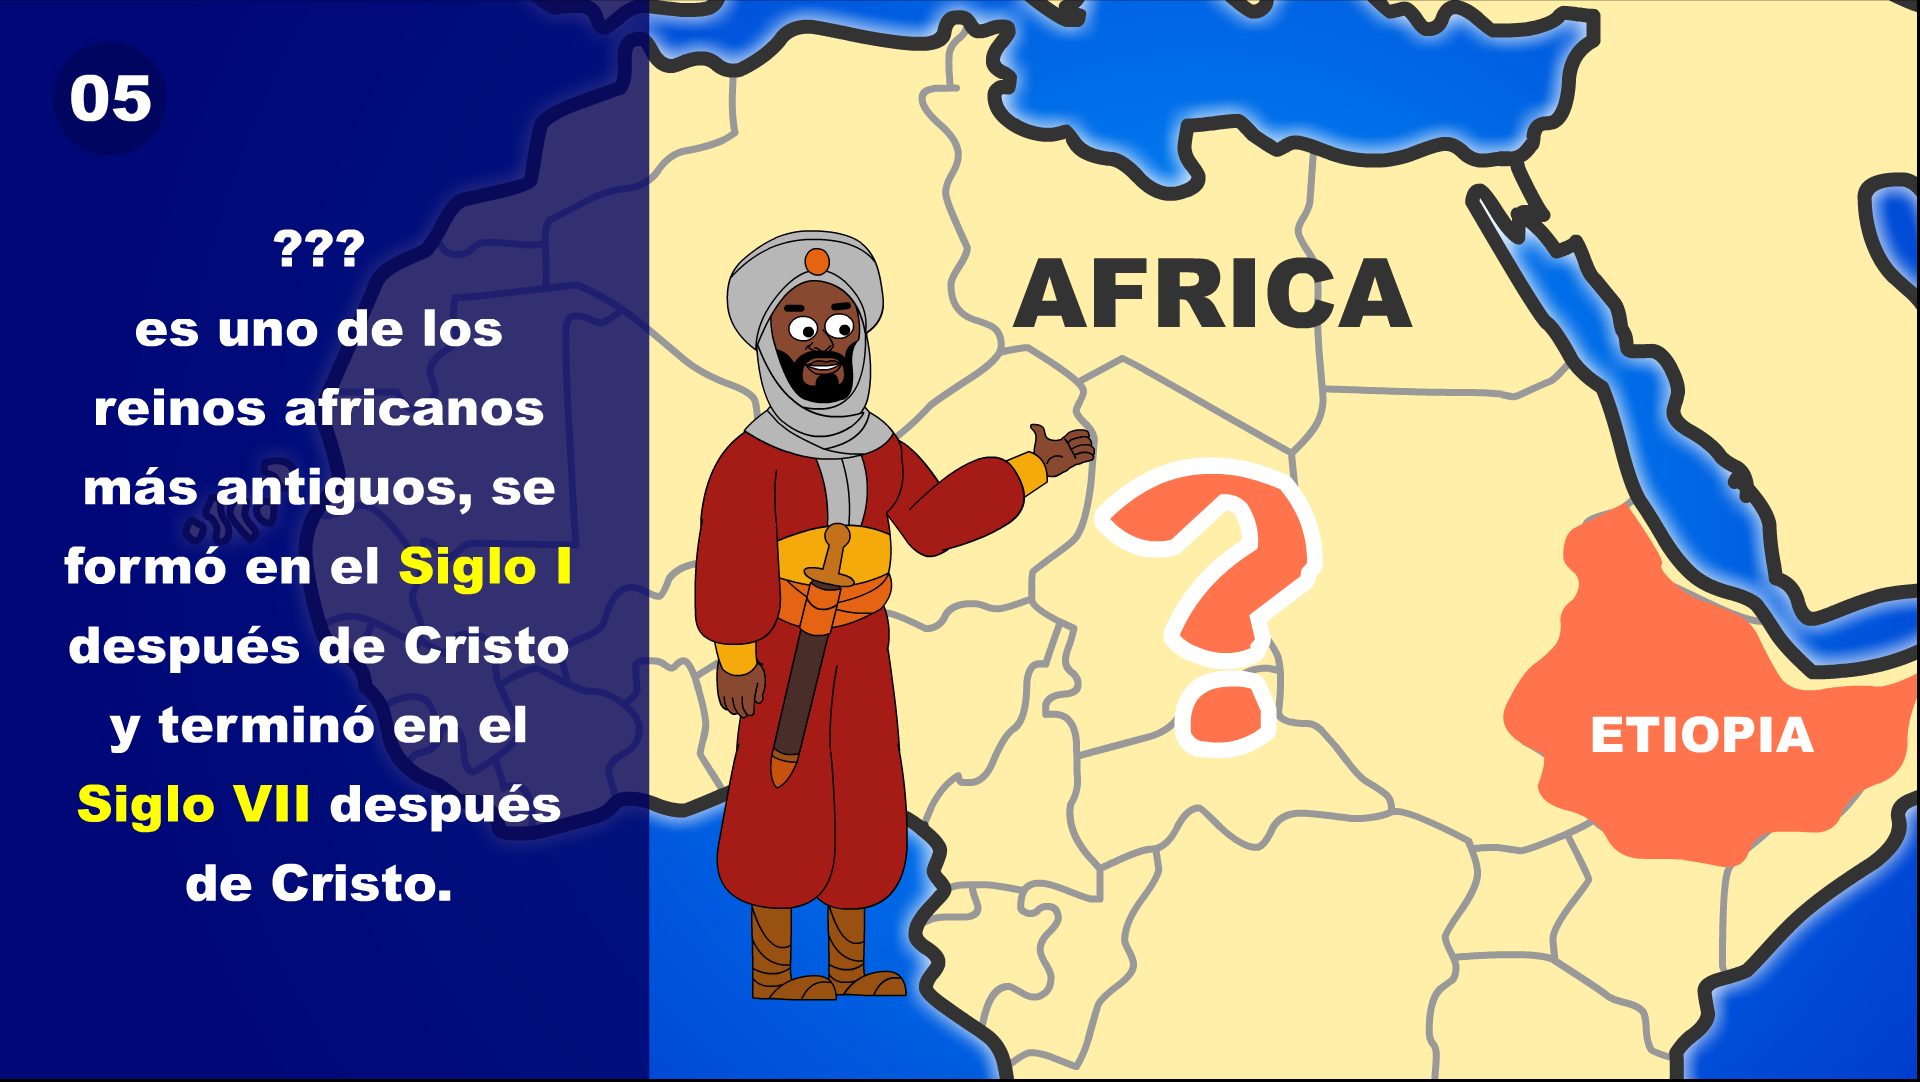
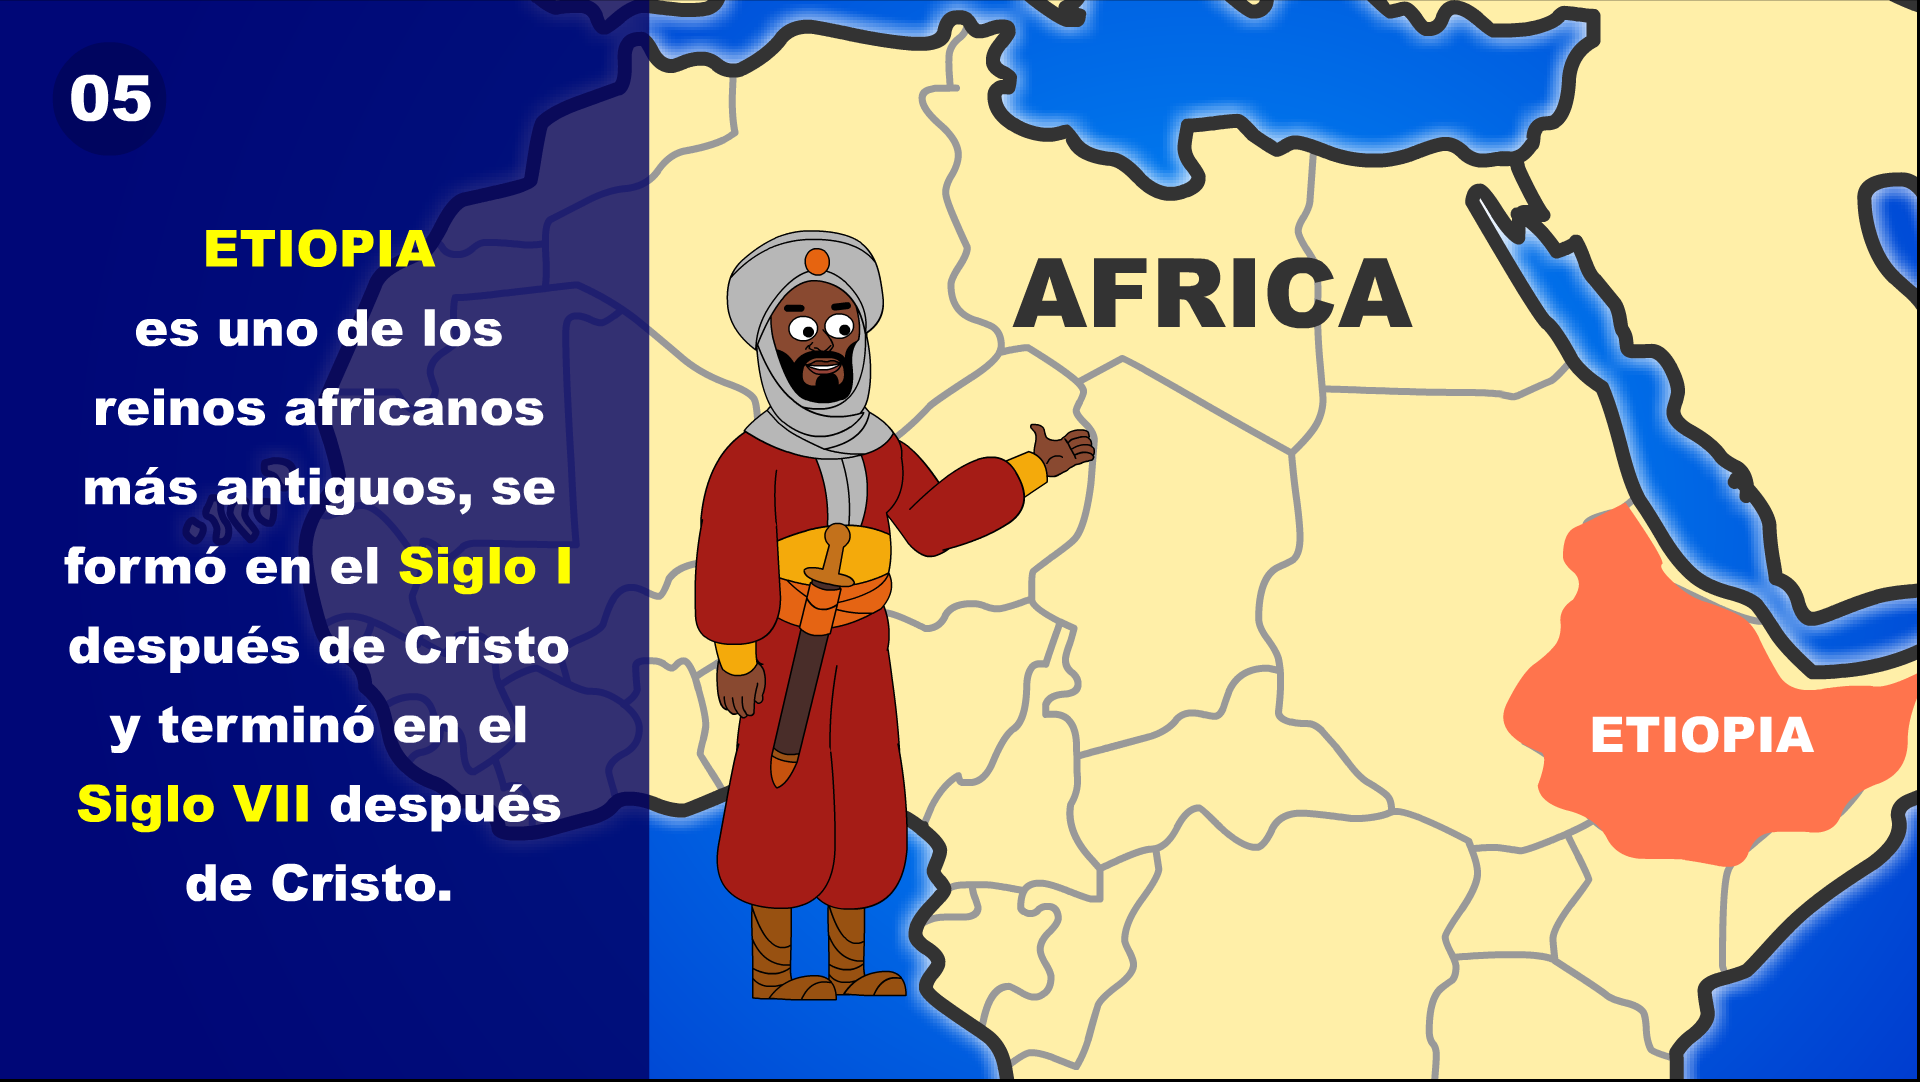
Story Cap 1

Changed region(s): [[0.5625, 0.427, 0.6875, 0.7015], [0.0938, 0.2135, 0.25, 0.244]]

diff --git a/app/static/assets/js/capitulo1.js b/app/static/assets/js/capitulo1.js
@@ -74,7 +74,7 @@ var iTitulo;
 var ratioTitulo;
 var pPrincipal;
 var iMapa;
-var rStory1, rKeita;
+var rStory1, rKeita, rVideointro;
 var frames;
 var iPergamino;
 var menuCapitulos;
@@ -87,6 +87,7 @@ loader.add('titulo', '../static/assets/img/titulo.png')
     .add('nube', '../static/assets/img/nube.png')
     .add('story1', '../static/assets/img/storycapitulo1.json')
     .add('keita', '../static/assets/img/storycapituloKeita.json')
+    .add('videointro', '../static/assets/img/storyintro.json')
     .add('iPergamino', '../static/assets/img/pergamino.png')
     //.add('capitulo4', '../static/assets/img/menu/iCapitulo4.png')
     //.add('capitulo5', '../static/assets/img/menu/iCapitulo5.png')
@@ -159,6 +160,31 @@ function startup() {
     keita.stop();
     keita.visible = false;
     app.stage.addChild(keita);
+
+    let urlsVideoIntro = loader.resources.videointro.data.url;
+    frames = [];
+    for (let i = 1; i < 121; i++) {
+        //const val = i < 10 ? `0${i}` : i;
+        //console.log(urlsStory[i]);
+        frames.push(PIXI.Texture.from(urlsVideoIntro[i]));
+    }
+
+    rVideointro = new PIXI.AnimatedSprite(frames);
+    rVideointro.onComplete = function () {
+        console.log("Termino load rVideointro");
+        //console.log(rStory1.currentFrame);
+        //window.location.href = url_base + "menu";
+    };
+    ratioTitulo = rVideointro.width / rVideointro.height;
+    rVideointro.anchor.set(0.5);
+    rVideointro.animationSpeed = 0.2;
+    rVideointro.height = heightwindow;
+    rVideointro.width = widhwindow;
+    rVideointro.position.set(widhwindow / 2, heightwindow / 2);
+    rVideointro.loop = false;
+    rVideointro.play();
+    rVideointro.visible = true;
+    app.stage.addChild(rVideointro);
 
     menuCapitulos = new PIXI.Container();
     iPergamino = PIXI.Sprite.from(loader.resources.iPergamino.texture);
@@ -332,5 +358,15 @@ function onClickStory(object) {
         console.log("nube invisible");
         keita.visible = false;
         keita.stop();
+    }
+
+     if (rStory1.currentFrame == 0) {
+        console.log("Story Video visible");
+        rVideointro.visible = true;
+        rVideointro.gotoAndPlay(0);
+    } else {
+        console.log("Videointro invisible");
+        rVideointro.visible = false;
+        rVideointro.stop();
     }
 }
